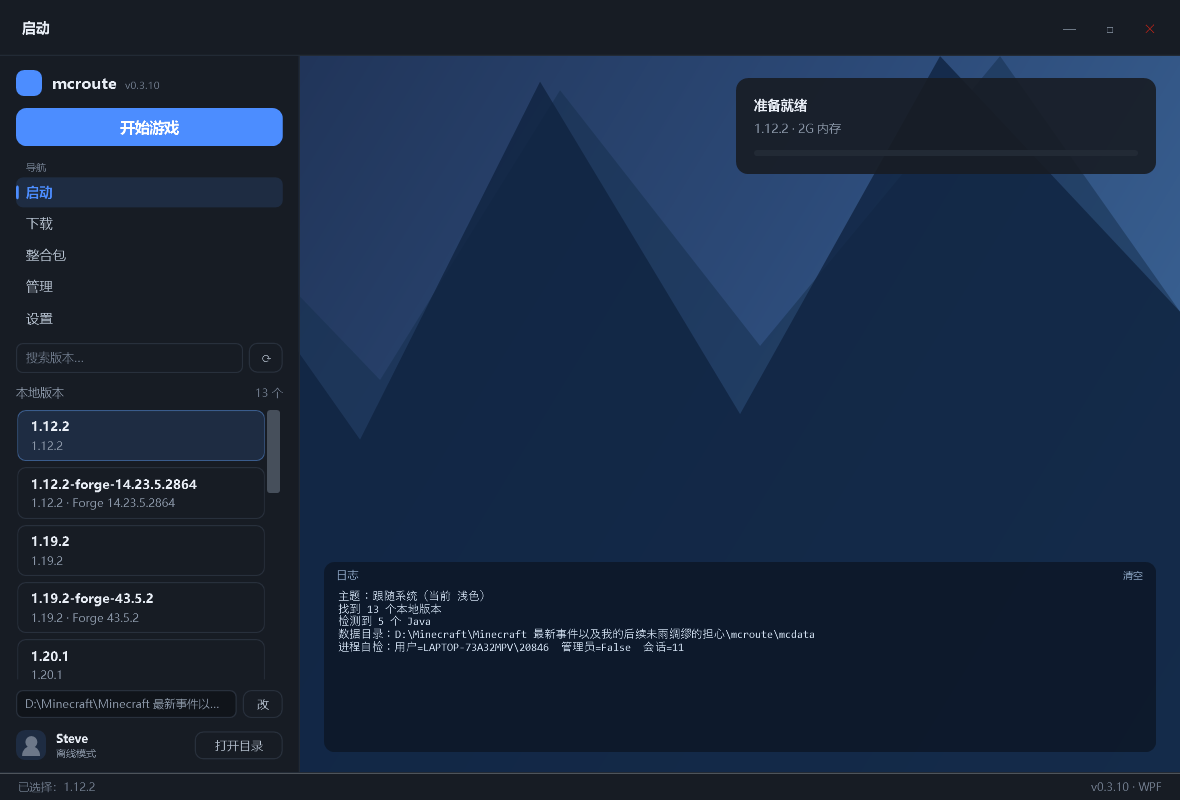
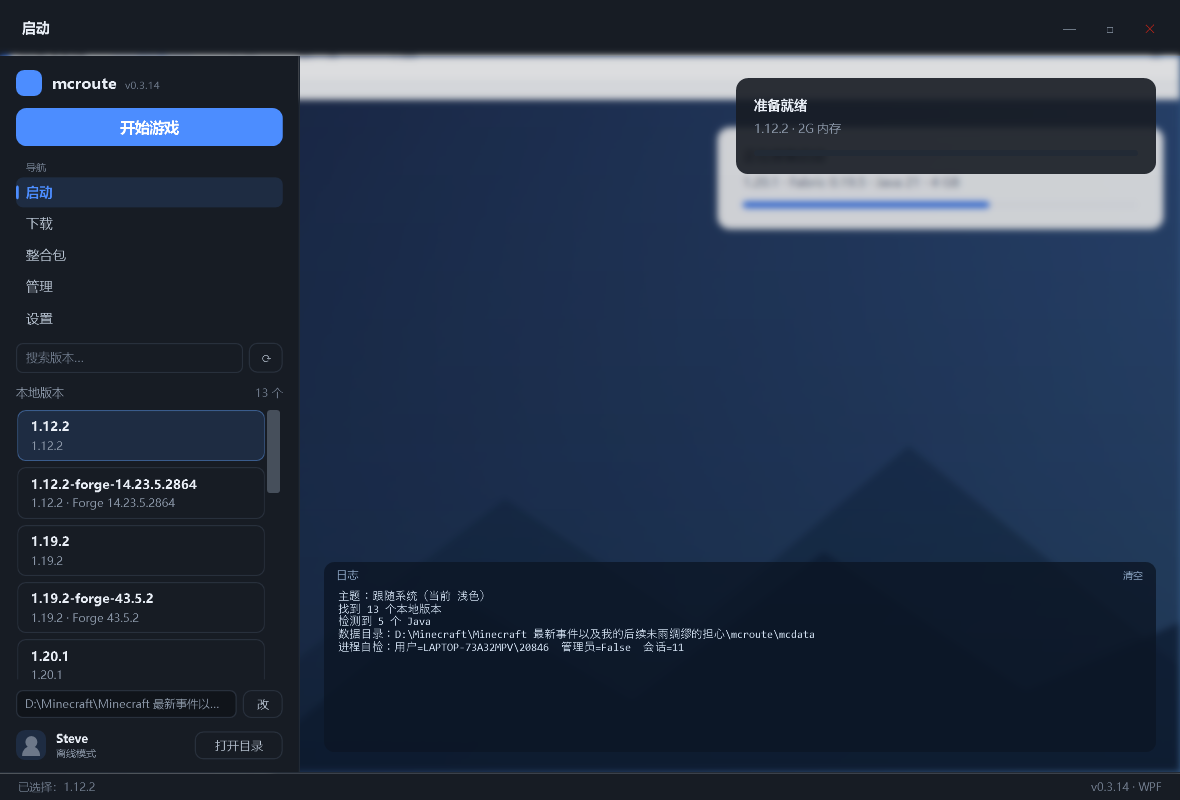
fix(wpf): theme color array misalignment (text was washed out); add background scope option; bg field shows filename; 0.3.14

Changed region(s): [[0.0, 0.0625, 1.0, 0.75], [0.9458, 0.9375, 1.0, 0.9688]]

diff --git a/csharp-wpf/MainWindow.xaml b/csharp-wpf/MainWindow.xaml
@@ -621,7 +621,7 @@
                 </Grid>
 
                 <!-- 下载页 -->
-                <Grid x:Name="PageDownload" Background="{DynamicResource Bg}" Visibility="Collapsed">
+                <Grid x:Name="PageDownload" Background="{DynamicResource PageBg}" Visibility="Collapsed">
                     <Border Margin="24" Background="{DynamicResource Surface}" CornerRadius="12"
                             BorderBrush="{DynamicResource Border}" BorderThickness="1" Padding="24">
                         <StackPanel>
@@ -676,7 +676,7 @@
                 </Grid>
 
                 <!-- 整合包页 -->
-                <Grid x:Name="PagePacks" Background="{DynamicResource Bg}" Visibility="Collapsed">
+                <Grid x:Name="PagePacks" Background="{DynamicResource PageBg}" Visibility="Collapsed">
                     <Border Margin="24" Background="{DynamicResource Surface}" CornerRadius="12"
                             BorderBrush="{DynamicResource Border}" BorderThickness="1" Padding="24">
                         <StackPanel>
@@ -700,7 +700,7 @@
                 </Grid>
 
                 <!-- 管理页 -->
-                <Grid x:Name="PageManage" Background="{DynamicResource Bg}" Visibility="Collapsed">
+                <Grid x:Name="PageManage" Background="{DynamicResource PageBg}" Visibility="Collapsed">
                     <Border Margin="24" Background="{DynamicResource Surface}" CornerRadius="12"
                             BorderBrush="{DynamicResource Border}" BorderThickness="1" Padding="24">
                         <Grid>
@@ -767,7 +767,7 @@
                 </Grid>
 
                 <!-- 设置页 -->
-                <Grid x:Name="PageSettings" Background="{DynamicResource Bg}" Visibility="Collapsed">
+                <Grid x:Name="PageSettings" Background="{DynamicResource PageBg}" Visibility="Collapsed">
                     <Border Margin="24" Background="{DynamicResource Surface}" CornerRadius="12"
                             BorderBrush="{DynamicResource Border}" BorderThickness="1" Padding="24">
                         <ScrollViewer VerticalScrollBarVisibility="Auto" HorizontalScrollBarVisibility="Disabled">
@@ -804,6 +804,11 @@
                             </StackPanel>
                             <TextBlock Text="支持 jpg / png / bmp；图片只保存在本地数据目录，不会打包进程序"
                                        Margin="0,6,0,0" FontSize="11" Foreground="{DynamicResource TextFaint}"/>
+
+                            <CheckBox x:Name="BgAllPagesBox" Margin="0,10,0,0"
+                                      Content="背景图在所有页面显示（不只启动页）"
+                                      Foreground="{DynamicResource TextSub}"
+                                      Checked="BgAllPages_Changed" Unchecked="BgAllPages_Changed"/>
 
                             <Grid Margin="0,14,0,0">
                                 <Grid.ColumnDefinitions>

diff --git a/csharp-wpf/MainWindow.xaml.cs b/csharp-wpf/MainWindow.xaml.cs
@@ -81,6 +81,12 @@ namespace Mcroute.Wpf
 
                     Theme.Apply(theme);
                     ApplyGlass(glass == 1, true);
+
+                    int bgAll = J.Int(cfg, "bg_all", 0);
+                    _initializing = true;
+                    try { if (BgAllPagesBox != null) BgAllPagesBox.IsChecked = bgAll == 1; }
+                    finally { _initializing = false; }
+                    ApplyBackgroundScope(bgAll == 1);
                 }
                 catch { }
 
@@ -199,6 +205,7 @@ namespace Mcroute.Wpf
                 data["page"] = _page;
                 data["theme"] = CurrentTheme();
                 data["glass"] = (GlassBox != null && GlassBox.IsChecked == true) ? 1 : 0;
+                data["bg_all"] = (BgAllPagesBox != null && BgAllPagesBox.IsChecked == true) ? 1 : 0;
 
                 foreach (string cfgPath in ConfigPaths())
                 {
@@ -785,6 +792,32 @@ namespace Mcroute.Wpf
             catch { return "auto"; }
         }
 
+        // ================= 背景图显示范围 =================
+        private bool _bgAll;
+
+        /// <summary>非玻璃模式下页面底色：仅启动页=实色；所有页面=半透明。</summary>
+        private void ApplyBackgroundScope(bool all)
+        {
+            _bgAll = all;
+            if (_glassOn) return;
+            try
+            {
+                bool dark = Theme.Effective == "dark";
+                string hex = all ? (dark ? "#D910141A" : "#D9F7F8FA")
+                                 : (dark ? "#10141A" : "#F7F8FA");
+                var res = Application.Current.Resources;
+                if (res != null) res["PageBg"] = Brush(hex);
+            }
+            catch { }
+        }
+
+        private void BgAllPages_Changed(object sender, RoutedEventArgs e)
+        {
+            if (BgAllPagesBox == null) return;
+            ApplyBackgroundScope(BgAllPagesBox.IsChecked == true);
+            try { SaveConfig(); } catch { }
+        }
+
         // ================= 玻璃面板 =================
         private bool _glassOn;
 
@@ -813,17 +846,12 @@ namespace Mcroute.Wpf
                     res["FieldBorder"] = Brush(dark ? "#40FFFFFF" : "#33000000");
                     if (Sidebar != null) Sidebar.Background = res["SurfaceGlass"] as Brush;
                     if (TopBar != null) TopBar.Background = System.Windows.Media.Brushes.Transparent;
-                    PageDownload.Background = System.Windows.Media.Brushes.Transparent;
-                    PagePacks.Background = System.Windows.Media.Brushes.Transparent;
-                    PageManage.Background = System.Windows.Media.Brushes.Transparent;
-                    PageSettings.Background = System.Windows.Media.Brushes.Transparent;
+                    // 页面底色统一走 PageBg：玻璃 = 全透明（露出背景图）
+                    res["PageBg"] = System.Windows.Media.Brushes.Transparent;
                 }
                 else
                 {
-                    PageDownload.SetResourceReference(Panel.BackgroundProperty, "Bg");
-                    PagePacks.SetResourceReference(Panel.BackgroundProperty, "Bg");
-                    PageManage.SetResourceReference(Panel.BackgroundProperty, "Bg");
-                    PageSettings.SetResourceReference(Panel.BackgroundProperty, "Bg");
+                    ApplyBackgroundScope(_bgAll);   // 关掉玻璃后按"显示范围"设置恢复
                     if (Sidebar != null) Sidebar.SetResourceReference(Border.BackgroundProperty, "Surface");
                     res["FieldBg"] = Brush(Theme.Effective == "dark" ? "#171C24" : "#FFFFFF");
                     res["FieldBorder"] = Brush(Theme.Effective == "dark" ? "#28303C" : "#E4E7EC");
@@ -869,7 +897,7 @@ namespace Mcroute.Wpf
                 if (File.Exists(file))
                 {
                     ApplyBackgroundBrush(file);
-                    BgPathText.Text = file;
+                    SetBgPathText(file);
                 }
                 else
                 {
@@ -894,7 +922,7 @@ namespace Mcroute.Wpf
                 string target = BackgroundFile();
                 File.Copy(dlg.FileName, target, true);
                 ApplyBackgroundBrush(target);
-                BgPathText.Text = target;
+                SetBgPathText(dlg.FileName);      // 显示原图名，而不是内部 background.img
                 AppendLog("已设置背景图：" + dlg.FileName);
             }
             catch (Exception ex)
@@ -914,7 +942,7 @@ namespace Mcroute.Wpf
                 HeroImageLayer.Visibility = Visibility.Collapsed;
                 HeroScrim.Visibility = Visibility.Collapsed;
                 HeroMountains.Visibility = Visibility.Visible;
-                BgPathText.Text = "（默认矢量背景）";
+                SetBgPathText(null);
                 AppendLog("已恢复默认背景");
             }
             catch (Exception ex)
@@ -924,6 +952,26 @@ namespace Mcroute.Wpf
         }
 
         private bool _applyingBg;          // 防止滑块赋值时递归触发保存
+
+        /// <summary>背景框只显示文件名（完整路径放 ToolTip），避免长路径被截断。</summary>
+        private void SetBgPathText(string fileOrEmpty)
+        {
+            if (BgPathText == null) return;
+            if (string.IsNullOrEmpty(fileOrEmpty))
+            {
+                BgPathText.Text = "（默认矢量背景）";
+                BgPathText.ToolTip = null;
+                return;
+            }
+            try
+            {
+                BgPathText.Text = System.IO.Path.GetFileName(fileOrEmpty);
+                BgPathText.ToolTip = fileOrEmpty;
+            }
+            catch { BgPathText.Text = fileOrEmpty; }
+            BgPathText.CaretIndex = 0;
+            BgPathText.ScrollToHome();
+        }
 
         private void ApplyBackgroundBrush(string file)
         {

diff --git a/csharp-wpf/Theme.cs b/csharp-wpf/Theme.cs
@@ -23,21 +23,21 @@ namespace Mcroute
         {
             "Bg", "Surface", "Border", "Hairline", "Primary", "PrimaryDim", "PrimaryEdge",
             "Text", "TextSub", "TextMuted", "TextFaint", "CardOverlay", "InputBg", "ScrollTrack", "Hover",
-            "SurfaceGlass", "BorderGlass", "InputBgGlass", "FieldBg", "FieldBorder",
+            "SurfaceGlass", "BorderGlass", "InputBgGlass", "FieldBg", "FieldBorder", "PageBg", "PageBgSoft",
         };
 
         private static readonly string[] LightColors =
         {
             "#F7F8FA", "#FFFFFF", "#E4E7EC", "#EDEFF2", "#2F6FEB", "#EEF4FF", "#CFE0FF",
             "#101828", "#344054", "#667085", "#98A2B3", "#F2FFFFFF", "#FAFBFC", "#EDEFF2", "#FAFBFE",
-            "#99FFFFFF", "#66000000", "#B3FFFFFF", "#FFFFFF", "#E4E7EC",
+            "#99FFFFFF", "#66000000", "#B3FFFFFF", "#FFFFFF", "#E4E7EC", "#F7F8FA", "#D9F7F8FA",
         };
 
         private static readonly string[] DarkColors =
         {
             "#10141A", "#171C24", "#28303C", "#222A35", "#4C8DFF", "#1E2C42", "#3A5C8C",
             "#E9EEF6", "#B7C2D0", "#8B97A8", "#6D7889", "#E6171C24", "#1D232C", "#2A3340", "#1F2733",
-            "#99171C24", "#4DFFFFFF", "#B31D232C", "#171C24", "#28303C",
+            "#99171C24", "#4DFFFFFF", "#B31D232C", "#171C24", "#28303C", "#10141A", "#D910141A",
         };
 
         /// <summary>应用主题：mode = "light" | "dark" | "auto"。</summary>

diff --git a/README.md b/README.md
@@ -400,6 +400,8 @@ csharp-wpf\out\mcroute-wpf.exe --shot out.png 1180 760 0
 
 ![玻璃面板](docs/gui-wpf-glass.png)
 
+**背景图显示范围**：默认只在启动页出现；勾选「背景图在所有页面显示」后，其它页面会以 85% 不透明的底色透出背景（不影响文字可读）。
+
 **背景图可调**：选了背景图后，设置页多出「暗度」（0–100%）和「模糊」（0–24）两个滑块。
 暗度默认按图片亮度自动给（亮图 32% / 中等 24% / 暗图 18%），模糊调到 12–18 就是毛玻璃观感：
 
